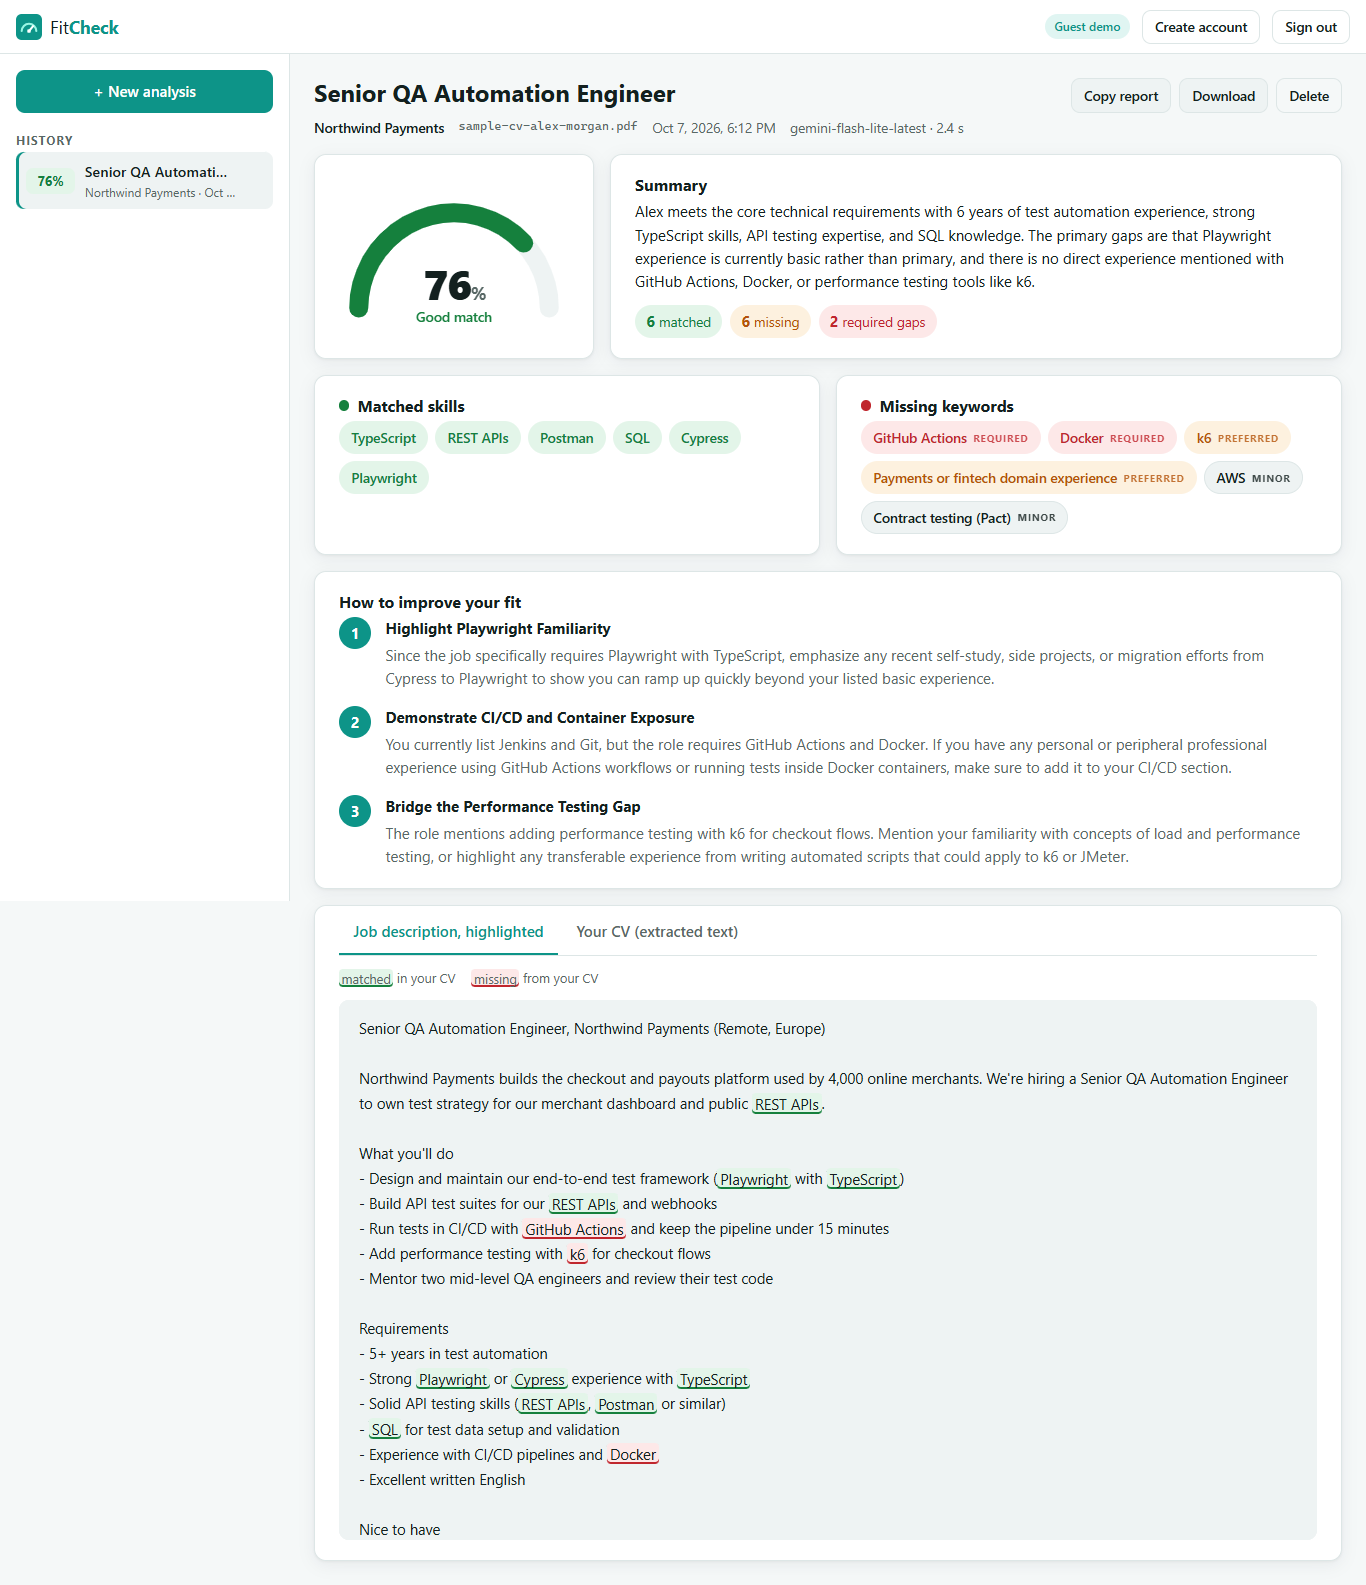
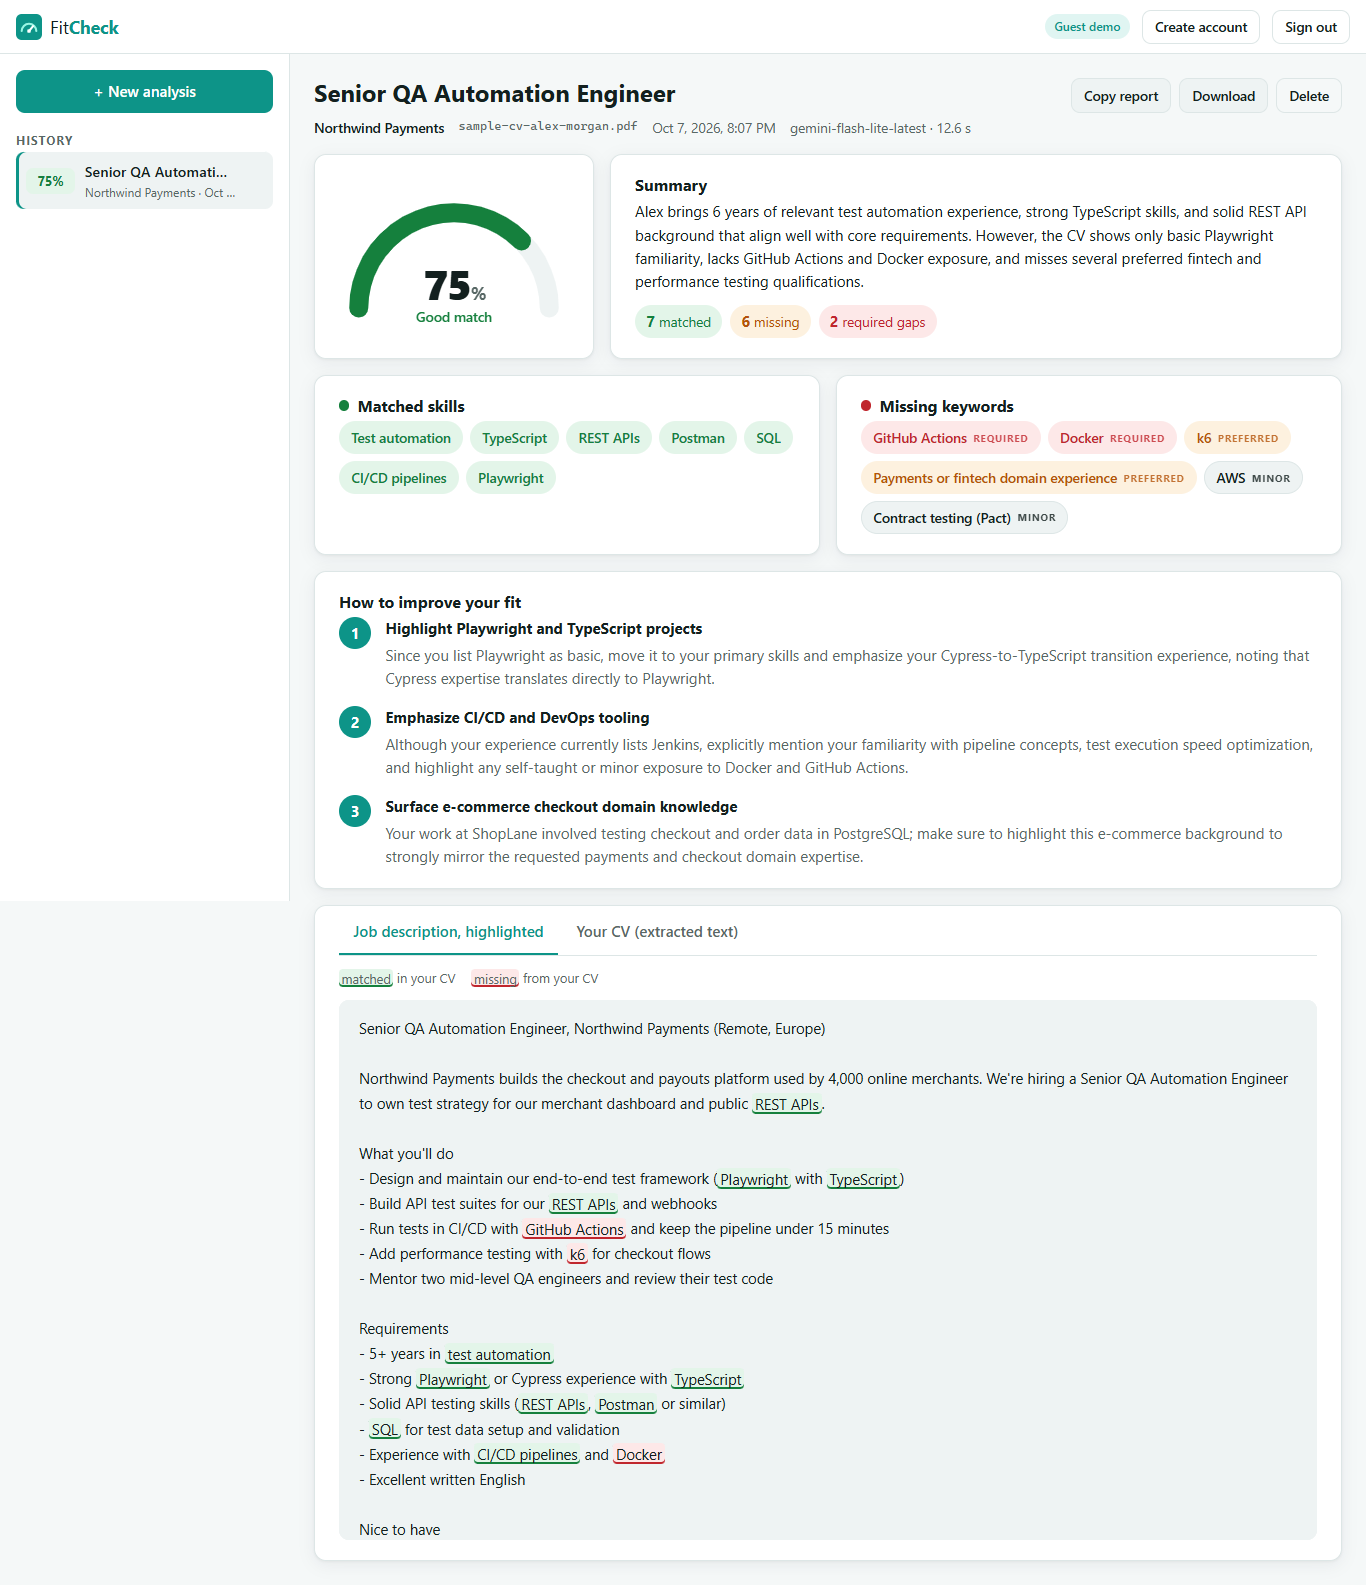
README: live demo link and live screenshots; mark project deployed

diff --git a/PROGRESS.md b/PROGRESS.md
@@ -25,11 +25,21 @@ Built on APITestGen's foundation (auth, guest demo, LLM clients, errors, deploy 
   "score 100" instruction). Browser E2E via Playwright + installed Edge: 15/15. API edge cases: 12/12.
 - Neon: database `fitcheck` created in the same Neon project as APITestGen (direct endpoint, see gotchas).
 
+- **Deployed and live (2026-10-07):**
+  - Frontend (Vercel project `fitcheck`): https://fitcheck-rho-three.vercel.app (`fitcheck.vercel.app` is someone else's).
+  - API (Render, Docker, Frankfurt, free): https://fitcheck-api-3jw1.onrender.com, health at `/api/health`.
+  - Render env `Cors__Origins__0` was entered with a trailing slash; the API now strips trailing slashes from
+    configured origins (same fix pushed to APITestGen).
+  - Live browser E2E (Playwright + Edge): 15/15, real analysis 75% in ~20 s.
+- Portfolio: card with demo link, screenshot `public/screenshots/fitcheck-landing.png` and note, plus a mention in
+  About.tsx — pushed.
+
+## Status
+Project complete. Possible follow-ups (not requested): apply the "quota only for valid requests" pattern to
+APITestGen; cleanup job for expired guest accounts; OCR for scanned PDFs.
+
 ## Next steps
-1. Deploy: Render Blueprint (`fitcheck-api`, Frankfurt) with `ConnectionStrings__Default` (fitcheck DB),
-   `Gemini__ApiKey`, `Cors__Origins__0`; Vercel (root `frontend`, `VITE_API_BASE_URL`). Owner does account steps.
-2. Fix Render CORS to the actual Vercel URL, verify live, then set README "Live demo" + portfolio card `demo:`.
-3. Portfolio card for FitCheck is NOT added yet — add after deploy (Rule 1), with `docs/landing.png` screenshot.
+- None pending. If a URL changes, update Render `Cors__Origins__0`, this README and the portfolio card.
 
 ## Decisions & gotchas
 - Same secrets pattern as APITestGen: `backend/FitCheck.Api/appsettings.Development.json` is gitignored and never

diff --git a/README.md b/README.md
@@ -10,7 +10,9 @@ FitCheck returns:
 
 Every analysis is saved to your personal history.
 
-**Live demo:** _coming soon_ · No sign-up needed: click **Try the live demo**, then **Try with sample CV & job**.
+**Live demo: https://fitcheck-rho-three.vercel.app** · No sign-up needed: click **Try the live demo**, then
+**Try with sample CV & job**. The API runs on a free tier that sleeps when idle, so the first visit can take up to a
+minute to wake.
 
 ![FitCheck result page](docs/result.png)
 
